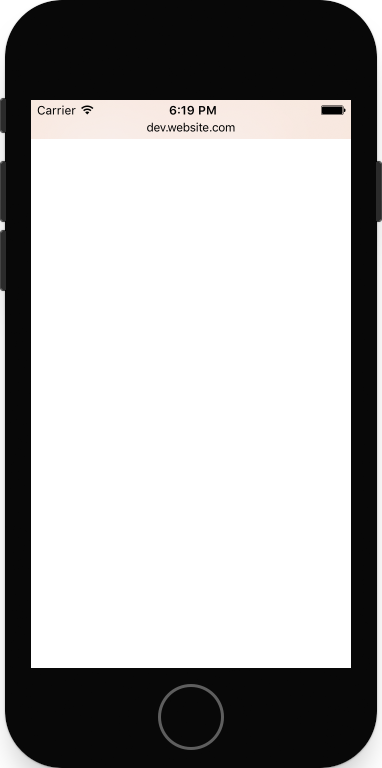
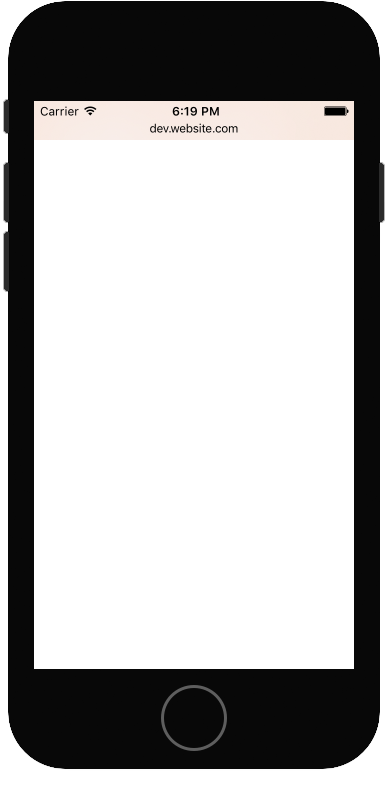
ADd further to work samples content; Add to adbout content.

Changed region(s): [[0.0, 0.0, 1.0, 1.0], [0.8639, 0.0, 0.9503, 0.0312], [0.9503, 0.0312, 0.9791, 0.0625]]

diff --git a/css/main.css b/css/main.css
@@ -157,7 +157,7 @@ main {
   padding: 2rem;
   min-height: 40vh;
   max-width: 1800px;
-  background-color: rgba(239, 239, 255, 0.9);
+  background-color: rgba(255, 255, 255, 0.9);
   z-index: 1; }
   @media only screen and (min-width: 1800px) {
     main {
@@ -698,6 +698,11 @@ nav {
     margin-bottom: 0; }
   .image img {
     width: 100%; }
+  .image.image-centred {
+    text-align: center; }
+    .image.image-centred img {
+      width: auto;
+      max-width: 100%; }
   .image.float-image {
     margin: 0 auto 2rem;
     width: 100%; }
@@ -740,7 +745,7 @@ nav {
  */
 footer {
   position: relative;
-  padding: 1rem 2rem 3.375rem;
+  padding: 2rem;
   width: auto;
   min-height: 6rem;
   background-color: #172121;
@@ -907,9 +912,9 @@ button, .button {
   transition: all 400ms cubic-bezier(0.9, 0, 0.13, 1.17); }
   .rwd-mobile .rwd-device {
     width: 100vw;
-    height: calc(100vw * 2.01047);
-    max-width: 382px;
-    max-height: 768px; }
+    height: calc(100vw * 2.04897);
+    max-width: 388px;
+    max-height: 795px; }
   .rwd-tablet .rwd-device {
     width: 100vw;
     height: calc(100vw * 1.37927);
@@ -958,10 +963,10 @@ button, .button {
   background-color: white; }
   .rwd-mobile .rwd-view-frame {
     position: absolute;
-    top: 17.70833%;
-    left: 7.32984%;
-    width: 83.76963%;
-    height: 68.88021%;
+    top: 17.2327%;
+    left: 7.47423%;
+    width: 82.47423%;
+    height: 66.66667%;
     border: solid 3px black; }
   .rwd-tablet .rwd-view-frame {
     position: absolute;

diff --git a/src/sass/rwd-frame.sass b/src/sass/rwd-frame.sass
@@ -69,11 +69,10 @@ $iFrameScrollBarWidth: 20
     .rwd-desktop &
       background-size: 100% auto
       background-image: url('#{$imagePath}browser-frame.png')
-    
-.rwd-view-frame // <iframe>
+
+//—————————————————————————————————————————————: iframe element
+.rwd-view-frame
   background-color: white
-  // opacity: 0
-  // transition: opacity $transDurationOut * 5 ease-out 1s
 
   .rwd-mobile &
     +rwdIFrameRules(mobile)

diff --git a/_layouts/post.html b/_layouts/post.html
@@ -5,7 +5,7 @@
   <meta charset="UTF-8">
   <meta name="viewport" content="width=device-width, initial-scale=1.0">
   <meta http-equiv="X-UA-Compatible" content="ie=edge">
-  <title>Website.com</title>
+  <title>Colin Tester – {% if page.title %}{{ page.title }}{% else %}{{ page.heading }}{% endif %}</title>
   {% include typekit-font.html %}  
   <link rel="stylesheet" href="{{ '/css/main.css' | relative_url }}">
 </head>

diff --git a/_layouts/collection.html b/_layouts/collection.html
@@ -5,7 +5,7 @@
   <meta charset="UTF-8">
   <meta name="viewport" content="width=device-width, initial-scale=1.0">
   <meta http-equiv="X-UA-Compatible" content="ie=edge">
-  <title>Website.com</title>
+  <title>Colin Tester – {% if page.title %}{{ page.title }}{% else %}{{ page.heading }}{% endif %}</title>
   {% include typekit-font.html %}  
   <link rel="stylesheet" href="css/main.css">
 </head>

diff --git a/_layouts/default.html b/_layouts/default.html
@@ -5,7 +5,7 @@
   <meta charset="UTF-8">
   <meta name="viewport" content="width=device-width, initial-scale=1.0">
   <meta http-equiv="X-UA-Compatible" content="ie=edge">
-  <title>Website.com</title>
+  <title>Colin Tester – {% if page.title %}{{ page.title }}{% else %}{{ page.heading }}{% endif %}</title>
   {% include typekit-font.html %}  
   <link rel="stylesheet" href="css/main.css">
 </head>

diff --git a/_layouts/work-sample.html b/_layouts/work-sample.html
@@ -5,7 +5,7 @@
   <meta charset="UTF-8">
   <meta name="viewport" content="width=device-width, initial-scale=1.0">
   <meta http-equiv="X-UA-Compatible" content="IE=edge">
-  <title>Website.com</title>
+  <title>Colin Tester – {% if page.title %}{{ page.title }}{% else %}{{ page.heading }}{% endif %}</title>
   {% include typekit-font.html %}  
   <link rel="stylesheet" href="css/main.css">
 </head>

diff --git a/src/sass/device-dims.scss b/src/sass/device-dims.scss
@@ -4,12 +4,12 @@
 
 $rwdDeviceDims: (
   mobile: (
-    width:      382, 
-    height:     768,
+    width:      388, 
+    height:     795,
     vpWidth:    320,
-    vpHeight:   529,
-    vpVertPos:  136,
-    vpHorizPos: 31 
+    vpHeight:   530,
+    vpVertPos:  137,
+    vpHorizPos: 32
   ),
   // need to use dims where the websites actually switch to tablet views:
   tablet: (

diff --git a/_layouts/home-page.html b/_layouts/home-page.html
@@ -4,7 +4,7 @@
   <meta charset="UTF-8">
   <meta name="viewport" content="width=device-width, initial-scale=1.0">
   <meta http-equiv="X-UA-Compatible" content="IE=edge">
-  <title>Website.com</title>
+  <title>Colin Tester – {{ page.heading }}</title>
   {% include typekit-font.html %}
   <link rel="stylesheet" href="css/main.css">
 </head>

diff --git a/src/sass/body.sass b/src/sass/body.sass
@@ -31,7 +31,8 @@ main
   padding: $contentPadding
   min-height: 40vh
   max-width: $maxMainElementWidth
-  background-color: rgba(#EFEFFF, 0.9)
+  //background-color: rgba(#EFEFFF, 0.9)
+  background-color: rgba(white, 0.9)
   z-index: 1
 
   @media only screen and (min-width: $maxMainElementWidth)

diff --git a/src/sass/footer.sass b/src/sass/footer.sass
@@ -3,7 +3,7 @@
  */
 footer
   position: relative
-  padding: ($contentPadding / 2) $contentPadding $mobileRibbonHeight
+  padding: $contentPadding
   width: auto
   min-height: 6rem
   background-color: $color3

diff --git a/src/sass/image.sass b/src/sass/image.sass
@@ -12,6 +12,13 @@
   img
     width: 100%
 
+  &.image-centred
+    text-align: center
+
+    img
+      width: auto
+      max-width: 100%
+
   &.float-image
     margin: 0 auto $contentMargin
     width: 100%

diff --git a/_includes/rwd-picture-element.html b/_includes/rwd-picture-element.html
@@ -1,4 +1,4 @@
-<picture class="image">
+<picture class="image{% if include.align %} image-{{ include.align }}{% endif %}">
   <!--[if IE 9]>
   <video style="display: none;"> 
   <![endif]-->
